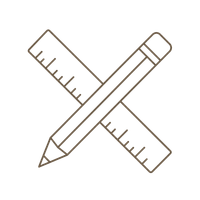
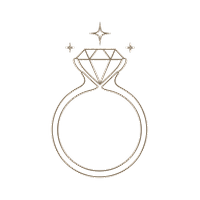
Add files via upload

diff --git a/index.html b/index.html
@@ -247,6 +247,14 @@
   .consult-form .alt-contact{font-size:15px;font-family:'Space Mono',monospace;color:var(--taupe-dark);}
   .consult-form .alt-contact a{color:var(--brown-dark);font-weight:700;border-bottom:1px solid var(--gold);}
   .form-honey{position:absolute;left:-9999px;opacity:0;}
+  .form-success{
+    grid-column:1 / -1;font-family:'Cormorant Garamond',serif;font-size:21px;font-style:italic;
+    color:var(--brown-dark);text-align:center;padding:30px 10px;margin:0;
+  }
+  .form-error{
+    grid-column:1 / -1;font-family:'Space Mono',monospace;font-size:14px;color:#9a3b3b;margin:14px 0 0;
+  }
+  .subscribe-success{font-family:'Jost',sans-serif;font-size:14px;color:var(--cream);margin:0;}
   @media(max-width:700px){
     .consult-form-card{padding:38px 24px;}
     .consult-form{grid-template-columns:1fr;}
@@ -305,7 +313,7 @@
   /* ===== TRUST ROW ===== */
   .trust{padding:70px 0;background:var(--cream);}
   .trust-grid{display:grid;grid-template-columns:repeat(3,1fr);gap:40px;text-align:center;}
-  .trust-grid img{width:62px;height:62px;margin:0 auto 18px;}
+  .trust-grid img{width:84px;height:84px;margin:0 auto 18px;}
   .trust-grid h3{font-size:23px;font-weight:600;margin:0 0 6px;color:var(--brown-dark);}
   .trust-grid p{margin:0;color:var(--taupe-dark);}
   @media(max-width:700px){.trust-grid{grid-template-columns:1fr;gap:36px;}}
@@ -338,7 +346,6 @@
     <a class="logo-word" href="#top"><img src="logo-brown.png" alt="Hidden Gem"></a>
     <nav class="primary" id="primaryNav">
       <a href="#top">Home</a><span class="dot">&middot;</span>
-      <a href="#story">Custom Pieces</a><span class="dot">&middot;</span>
       <a href="#story">Our Story</a><span class="dot">&middot;</span>
       <a href="#appointment">Contact</a>
     </nav>
@@ -470,15 +477,14 @@
   <section class="appointment" id="appointment">
     <div class="appointment-inner">
       <h2>Book Your Appointment</h2>
-      <p>Ready to create a ring that tells your unique love story? Fill out the form below and we'll personally follow up to start your consultation. Our family is here to guide you through every step of designing your custom engagement ring, start to finish.</p>
-      <a class="btn ghost" href="#consult-form">Start My Inquiry</a>
+      <p>Ready to create a ring that tells your story? Fill out the form below and we'll personally follow up.</p>
     </div>
   </section>
 
   <div class="consult-form-card" id="consult-form">
     <h3>Tell Us About Your Vision</h3>
     <p class="form-intro">Share a few details below and we'll personally follow up &mdash; by phone, text, or email, whichever you prefer.</p>
-    <form class="consult-form" action="https://formsubmit.co/hello@hiddengemrings.com" method="POST">
+    <form class="consult-form" id="consultForm" action="https://formsubmit.co/hello@hiddengemrings.com" method="POST">
       <input type="hidden" name="_subject" value="New inquiry from Hidden Gem website">
       <input type="hidden" name="_template" value="table">
       <input type="hidden" name="_captcha" value="false">
@@ -583,55 +589,18 @@
 <section class="policies">
   <div class="wrap">
     <h2>Hidden Gem Policies</h2>
-    <div class="policies-top">Warranty</div>
     <div class="policies-list">
       <div class="policy-block">
-        <h3>1-Year Craftsmanship Warranty</h3>
-        <p>We proudly stand behind the quality of our craftsmanship. Your jewelry is covered for <b>one year</b> against manufacturing defects, including:</p>
-        <ul>
-          <li>Loose prongs due to craftsmanship</li>
-          <li>Stone tightening from normal wear</li>
-          <li>Manufacturing-related issues</li>
-        </ul>
-        <p>This warranty does not cover accidental damage, loss, theft, misuse, or normal wear over time.</p>
+        <h3>Warranty &amp; Care</h3>
+        <p>Every piece is covered for <b>one year</b> against manufacturing defects &mdash; loose prongs, stone tightening, and other craftsmanship issues (not accidental damage, loss, theft, or normal wear). We also offer <b>complimentary lifetime cleaning and inspection</b>; bring your piece in every <b>6&ndash;12 months</b> to keep it looking its best.</p>
       </div>
       <div class="policy-block">
-        <h3>Lifetime Complimentary Cleaning &amp; Inspection</h3>
-        <p>We want your Hidden Gem piece to last a lifetime. That's why we offer <b>complimentary lifetime cleanings and inspections</b> on all Hidden Gem jewelry. During your visit, we'll:</p>
-        <ul>
-          <li>Professionally clean your jewelry</li>
-          <li>Inspect your prongs and stone settings</li>
-          <li>Check for normal wear and recommend any needed maintenance</li>
-        </ul>
-        <p>We recommend bringing your jewelry in every <b>6&ndash;12 months</b> to help keep it looking beautiful and secure.</p>
+        <h3>Custom Orders &amp; Payment</h3>
+        <p>Every piece is made to order, so <b>all custom orders are final sale</b> once production begins. A <b>50% non-refundable deposit</b> starts production (remaining balance due before shipping or pickup); ask about financing if you'd rather spread out the cost. Most pieces are completed in <b>4&ndash;6 weeks</b>.</p>
       </div>
       <div class="policy-block">
-        <h3>Custom Orders</h3>
-        <p>Every Hidden Gem piece is made to order just for you. Because each design is custom made, <b>all custom orders are final sale</b> once production has begun.</p>
-      </div>
-      <div class="policy-block">
-        <h3>Production Timeline</h3>
-        <p>Most custom pieces are completed within <b>4&ndash;6 weeks</b> after your design is approved and your <b>50% non-refundable deposit</b> is received. Production times may vary depending on the design and stone availability.</p>
-      </div>
-      <div class="policy-block">
-        <h3>Payment</h3>
-        <p>A <b>50% non-refundable deposit</b> is required to begin production for cash and direct-pay orders. The remaining balance is due before your jewelry is shipped or picked up. Prefer to spread out the cost instead? Ask us about financing &mdash; see the Financing tab above.</p>
-      </div>
-      <div class="policy-block">
-        <h3>Shipping</h3>
-        <p>Every order is <b>fully insured</b> and shipped with an <b>adult signature required</b> to ensure your jewelry arrives safely.</p>
-      </div>
-      <div class="policy-block">
-        <h3>Returns &amp; Exchanges</h3>
-        <p>Because each piece is handcrafted specifically for you, we do not accept returns or exchanges on custom jewelry. If you experience any issues with your order, please contact us &mdash; we're always happy to help.</p>
-      </div>
-      <div class="policy-block">
-        <h3>Jewelry Care</h3>
-        <p>To keep your jewelry looking its best, we recommend removing it during heavy lifting, sports, swimming, gardening, and when using harsh chemicals. Regular cleanings and inspections will help preserve the beauty and longevity of your piece.</p>
-      </div>
-      <div class="policy-block">
-        <h3>Questions?</h3>
-        <p>We're here to help every step of the way. If you have any questions before, during, or after your purchase, don't hesitate to reach out. We look forward to creating something truly special with you.</p>
+        <h3>Shipping &amp; Returns</h3>
+        <p>Every order ships <b>fully insured</b> with an <b>adult signature required</b>. Because each piece is handcrafted for you, we don't accept returns or exchanges on custom jewelry &mdash; if anything's wrong with your order, reach out and we'll make it right.</p>
       </div>
     </div>
   </div>
@@ -671,7 +640,7 @@
     </div>
     <div>
       <h4>Subscribe to get our special offers</h4>
-      <form class="subscribe-form" action="https://formsubmit.co/hello@hiddengemrings.com" method="POST">
+      <form class="subscribe-form" id="newsletterForm" action="https://formsubmit.co/hello@hiddengemrings.com" method="POST">
         <input type="hidden" name="_subject" value="New newsletter signup from Hidden Gem website">
         <input type="hidden" name="_captcha" value="false">
         <input type="hidden" name="_next" value="https://hiddengemrings.com/thank-you.html">
@@ -716,6 +685,65 @@
       if(!wasOpen) item.classList.add('open');
     });
   });
+
+  // consultation form: submit quietly in the background, stay on this page
+  const consultForm = document.getElementById('consultForm');
+  if (consultForm) {
+    consultForm.addEventListener('submit', async (e) => {
+      e.preventDefault();
+      if (consultForm.querySelector('[name="_honey"]').value) return; // bot trap
+      const submitBtn = consultForm.querySelector('button[type="submit"]');
+      const originalLabel = submitBtn.textContent;
+      submitBtn.disabled = true;
+      submitBtn.textContent = 'Sending...';
+      const data = {};
+      new FormData(consultForm).forEach((v, k) => { if (k !== '_next' && k !== '_honey') data[k] = v; });
+      try {
+        const res = await fetch('https://formsubmit.co/ajax/hello@hiddengemrings.com', {
+          method: 'POST',
+          headers: { 'Content-Type': 'application/json', 'Accept': 'application/json' },
+          body: JSON.stringify(data)
+        });
+        if (!res.ok) throw new Error('send failed');
+        consultForm.innerHTML = '<p class="form-success">Thank you! We\'ve received your message and will personally follow up soon &mdash; by phone, text, or email, whichever you prefer.</p>';
+      } catch (err) {
+        submitBtn.disabled = false;
+        submitBtn.textContent = originalLabel;
+        let errEl = consultForm.querySelector('.form-error');
+        if (!errEl) {
+          errEl = document.createElement('p');
+          errEl.className = 'form-error';
+          consultForm.appendChild(errEl);
+        }
+        errEl.textContent = "Something went wrong sending that. Please call/text (832) 474-6344 or email hello@hiddengemrings.com directly and we'll get right back to you.";
+      }
+    });
+  }
+
+  // newsletter form: same quiet background submit
+  const newsletterForm = document.getElementById('newsletterForm');
+  if (newsletterForm) {
+    newsletterForm.addEventListener('submit', async (e) => {
+      e.preventDefault();
+      const btn = newsletterForm.querySelector('button[type="submit"]');
+      btn.disabled = true;
+      btn.textContent = '...';
+      const data = {};
+      new FormData(newsletterForm).forEach((v, k) => { if (k !== '_next') data[k] = v; });
+      try {
+        const res = await fetch('https://formsubmit.co/ajax/hello@hiddengemrings.com', {
+          method: 'POST',
+          headers: { 'Content-Type': 'application/json', 'Accept': 'application/json' },
+          body: JSON.stringify(data)
+        });
+        if (!res.ok) throw new Error('send failed');
+        newsletterForm.innerHTML = '<p class="subscribe-success">Thanks, you\'re on the list!</p>';
+      } catch (err) {
+        btn.disabled = false;
+        btn.textContent = 'Join';
+      }
+    });
+  }
 </script>
 
 </body></html>
